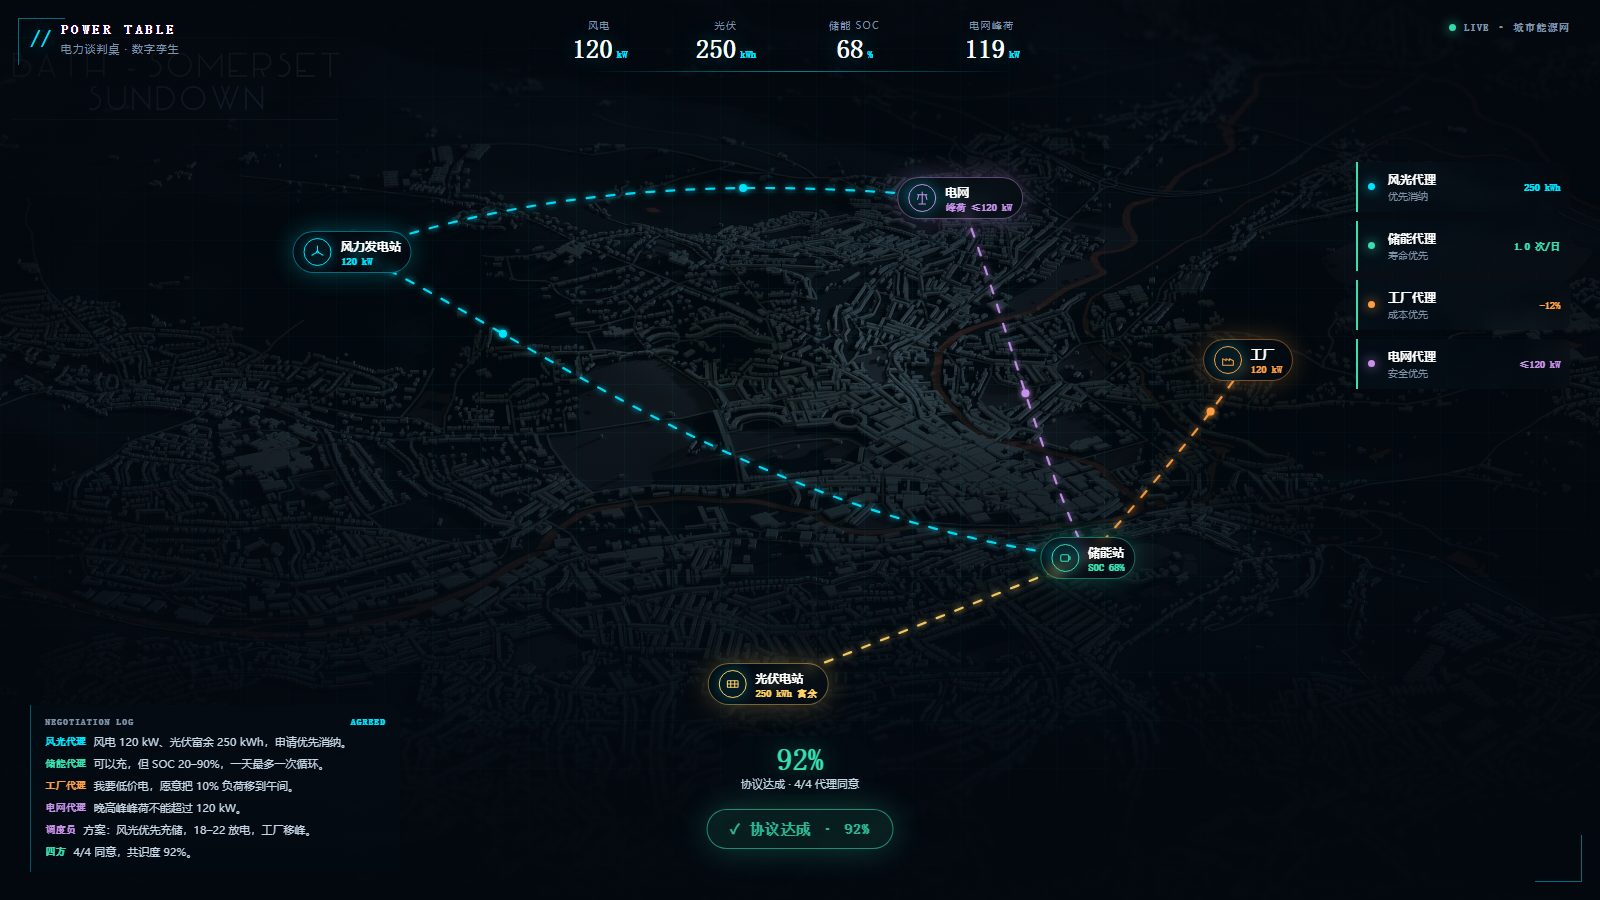
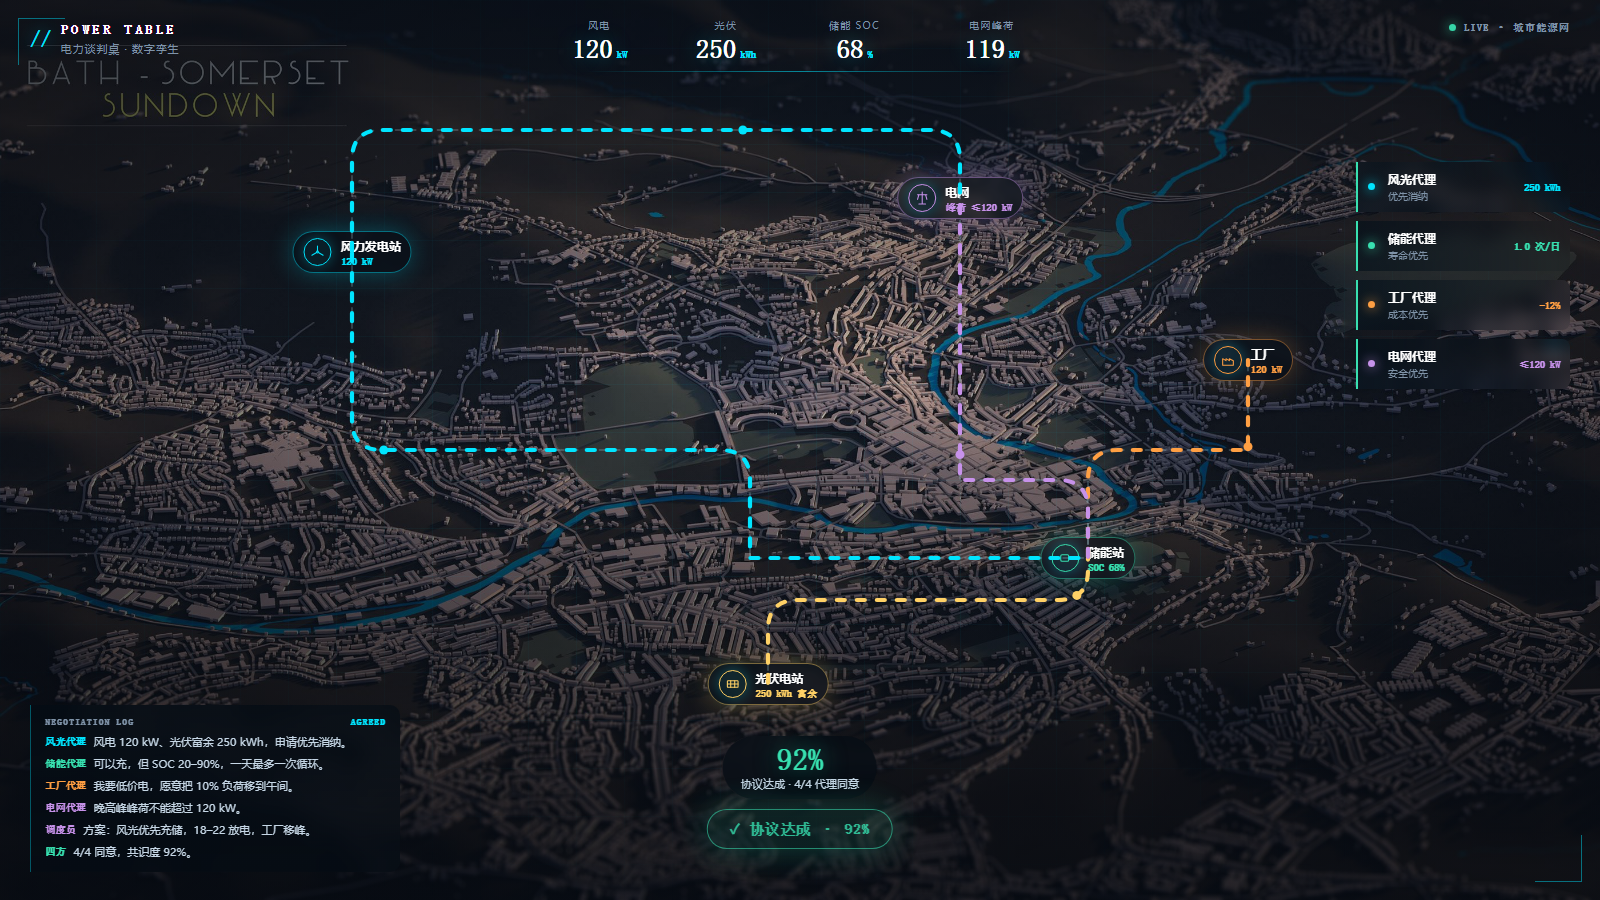
fix: clearer city map and pre-drawn power routes between buildings
- remove map filter/transform that hid the SVG flow layer
- pre-draw street-style routes before demo, then animate colored power along them
- brighter base map, colored particles and 92% consensus

diff --git a/app/public/twin.html b/app/public/twin.html
@@ -61,27 +61,35 @@
           <feMerge><feMergeNode in="b"/><feMergeNode in="SourceGraphic"/></feMerge>
         </filter>
       </defs>
-      <path class="ts-path wind" d="M352,252 C520,330 760,520 1088,558"/>
-      <path class="ts-path pv" d="M768,684 C860,650 980,600 1088,558"/>
-      <path class="ts-path wind2" d="M352,252 C560,180 760,180 960,198"/>
-      <path class="ts-path factory" d="M1088,558 C1140,500 1200,430 1248,360"/>
-      <path class="ts-path grid" d="M1088,558 C1040,460 1000,300 960,198"/>
-      <circle class="ts-particle wind" r="4"><animateMotion dur="2.8s" repeatCount="indefinite" path="M352,252 C520,330 760,520 1088,558"/></circle>
-      <circle class="ts-particle pv" r="4"><animateMotion dur="3.1s" repeatCount="indefinite" path="M768,684 C860,650 980,600 1088,558"/></circle>
-      <circle class="ts-particle wind2" r="4"><animateMotion dur="3.4s" repeatCount="indefinite" path="M352,252 C560,180 760,180 960,198"/></circle>
-      <circle class="ts-particle factory" r="4"><animateMotion dur="2.4s" repeatCount="indefinite" path="M1088,558 C1140,500 1200,430 1248,360"/></circle>
-      <circle class="ts-particle grid" r="4"><animateMotion dur="2.6s" repeatCount="indefinite" path="M1088,558 C1040,460 1000,300 960,198"/></circle>
+      <!-- 演示前先描好的城市道路路径 -->
+      <path class="ts-route" d="M352,252 L352,420 Q352,450 382,450 L720,450 Q750,450 750,480 L750,558 L1088,558"/>
+      <path class="ts-route" d="M768,684 L768,630 Q768,600 798,600 L1058,600 Q1088,600 1088,570 L1088,558"/>
+      <path class="ts-route" d="M352,252 L352,160 Q352,130 382,130 L930,130 Q960,130 960,160 L960,198"/>
+      <path class="ts-route" d="M1088,558 L1088,480 Q1088,450 1118,450 L1248,450 L1248,360"/>
+      <path class="ts-route" d="M1088,558 L1088,510 Q1088,480 1058,480 L960,480 L960,198"/>
+
+      <!-- 电力按协议流动 -->
+      <path class="ts-path wind" d="M352,252 L352,420 Q352,450 382,450 L720,450 Q750,450 750,480 L750,558 L1088,558"/>
+      <path class="ts-path pv" d="M768,684 L768,630 Q768,600 798,600 L1058,600 Q1088,600 1088,570 L1088,558"/>
+      <path class="ts-path wind2" d="M352,252 L352,160 Q352,130 382,130 L930,130 Q960,130 960,160 L960,198"/>
+      <path class="ts-path factory" d="M1088,558 L1088,480 Q1088,450 1118,450 L1248,450 L1248,360"/>
+      <path class="ts-path grid" d="M1088,558 L1088,510 Q1088,480 1058,480 L960,480 L960,198"/>
+      <circle class="ts-particle wind" r="4.5"><animateMotion dur="2.8s" repeatCount="indefinite" path="M352,252 L352,420 Q352,450 382,450 L720,450 Q750,450 750,480 L750,558 L1088,558"/></circle>
+      <circle class="ts-particle pv" r="4.5"><animateMotion dur="3.1s" repeatCount="indefinite" path="M768,684 L768,630 Q768,600 798,600 L1058,600 Q1088,600 1088,570 L1088,558"/></circle>
+      <circle class="ts-particle wind2" r="4.5"><animateMotion dur="3.4s" repeatCount="indefinite" path="M352,252 L352,160 Q352,130 382,130 L930,130 Q960,130 960,160 L960,198"/></circle>
+      <circle class="ts-particle factory" r="4.5"><animateMotion dur="2.4s" repeatCount="indefinite" path="M1088,558 L1088,480 Q1088,450 1118,450 L1248,450 L1248,360"/></circle>
+      <circle class="ts-particle grid" r="4.5"><animateMotion dur="2.6s" repeatCount="indefinite" path="M1088,558 L1088,510 Q1088,480 1058,480 L960,480 L960,198"/></circle>
     </svg>
 
     <section class="ts-log" id="ts-log" aria-live="polite">
       <header><span>NEGOTIATION LOG</span><b id="ts-round">STANDBY</b></header>
-      <div class="ts-lines" id="ts-lines"><p class="ts-line idle">等待开始演示…</p></div>
+      <div class="ts-lines" id="ts-lines"><p class="ts-line idle">路径已规划 · 点击开始，电力将沿城市道路流动</p></div>
     </section>
 
     <div class="ts-control">
       <div class="ts-consensus" id="ts-consensus"><b>92%</b><span>协议达成 · 4/4 代理同意</span></div>
       <button class="ts-start" id="ts-start" type="button"><span>▶</span> 开始演示</button>
-      <p class="ts-hint" id="ts-hint">点击开始：四方代理进入协商，随后电力按协议在城市中流动</p>
+      <p class="ts-hint" id="ts-hint">点击开始：四方代理进入协商，随后电力沿城市道路流动</p>
     </div>
   </main>
   <script src="/twin-stage.js"></script>

diff --git a/app/public/twin-stage.css b/app/public/twin-stage.css
@@ -34,16 +34,16 @@ body {
   position: absolute;
   inset: 0;
   background: url("/assets/city.png") center / cover no-repeat;
-  filter: brightness(0.52) contrast(1.12) saturate(0.55) hue-rotate(178deg);
-  transform: scale(1.02);
+  filter: none;
+  transform: none;
 }
 
 .ts-veil {
   position: absolute;
   inset: 0;
   background:
-    radial-gradient(80% 60% at 50% 42%, rgba(0, 60, 90, 0.10), rgba(3, 8, 15, 0.84) 78%),
-    linear-gradient(180deg, rgba(3, 8, 15, 0.55), rgba(3, 8, 15, 0.32) 40%, rgba(3, 8, 15, 0.86));
+    radial-gradient(80% 60% at 50% 42%, rgba(0, 60, 90, 0.08), rgba(3, 8, 15, 0.58) 80%),
+    linear-gradient(180deg, rgba(6, 18, 32, 0.42), rgba(4, 12, 22, 0.14) 40%, rgba(3, 8, 15, 0.58));
 }
 
 .ts-grid {
@@ -302,7 +302,7 @@ body {
 .ts-flows {
   position: absolute;
   inset: 0;
-  z-index: 11;
+  z-index: 30;
   width: 100%;
   height: 100%;
   pointer-events: none;
@@ -310,27 +310,41 @@ body {
 
 .ts-path {
   fill: none;
-  stroke-width: 2.2;
+  stroke-width: 4.2;
   stroke-linecap: round;
+  stroke-linejoin: round;
   stroke-dasharray: 8 12;
   opacity: 0;
-  filter: url(#tsGlow);
   transition: opacity 0.5s ease;
 }
+
+/* 演示前先描好的城市道路路径 */
+.ts-route {
+  fill: none;
+  stroke: rgba(190, 240, 255, 0.72);
+  stroke-width: 2;
+  stroke-linecap: round;
+  stroke-linejoin: round;
+  stroke-dasharray: 6 8;
+  opacity: 1;
+  transition: opacity 0.4s ease;
+}
+
+.ts.is-flow .ts-route { opacity: 0.28; }
 
 .ts-path.wind, .ts-path.wind2 { stroke: var(--cyan); }
 .ts-path.pv { stroke: var(--yellow); }
 .ts-path.factory { stroke: var(--orange); }
 .ts-path.grid { stroke: var(--purple); }
 
-.ts-particle { fill: #fff; opacity: 0; filter: url(#tsGlow); transition: opacity 0.5s ease; }
+.ts-particle { fill: #fff; opacity: 0; transition: opacity 0.5s ease; }
 .ts-particle.wind, .ts-particle.wind2 { fill: var(--cyan); }
 .ts-particle.pv { fill: var(--yellow); }
 .ts-particle.factory { fill: var(--orange); }
 .ts-particle.grid { fill: var(--purple); }
 
 .ts.is-flow .ts-path {
-  opacity: 0.95;
+  opacity: 1;
   animation: tsDash 1.1s linear infinite;
 }
 

diff --git a/app/public/twin-stage.js b/app/public/twin-stage.js
@@ -98,7 +98,7 @@
     lines.replaceChildren();
     const idle = document.createElement('p');
     idle.className = 'ts-line idle';
-    idle.textContent = '等待开始演示…';
+    idle.textContent = '路径已规划 · 点击开始，电力将沿城市道路流动';
     lines.append(idle);
     document.querySelectorAll('.ts-agent').forEach((a) => a.classList.remove('is-active', 'is-agree'));
   }
